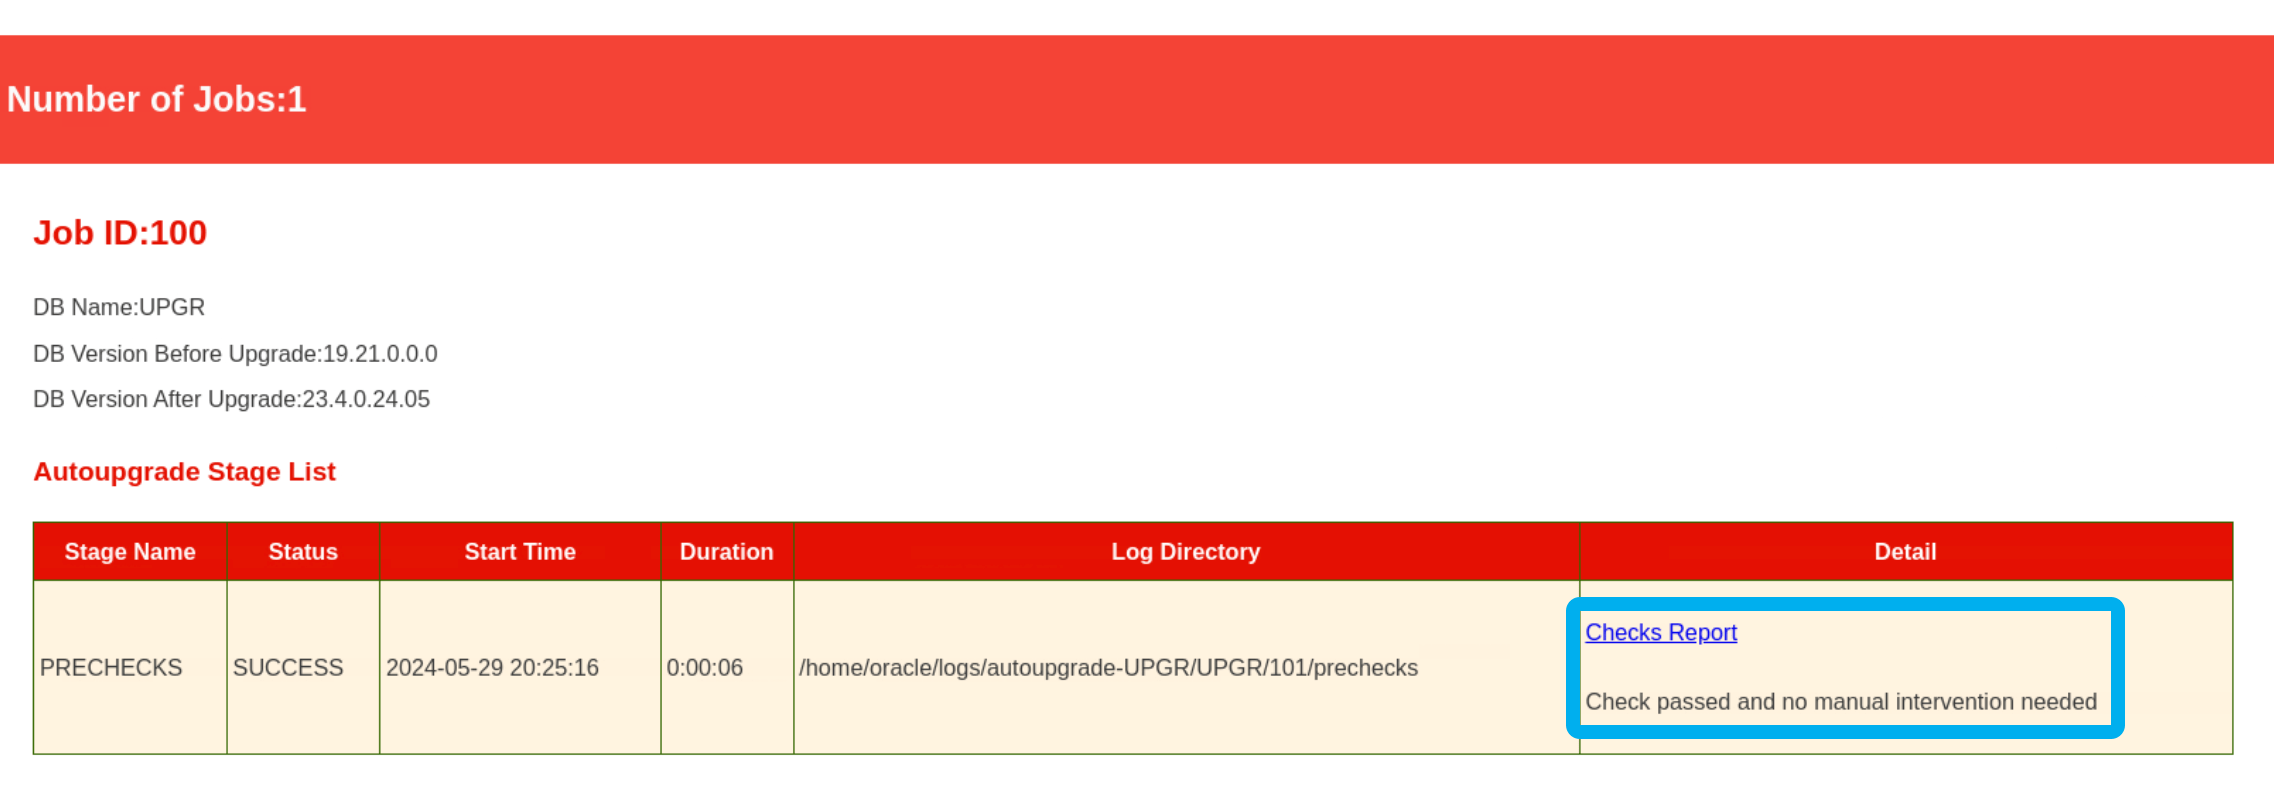
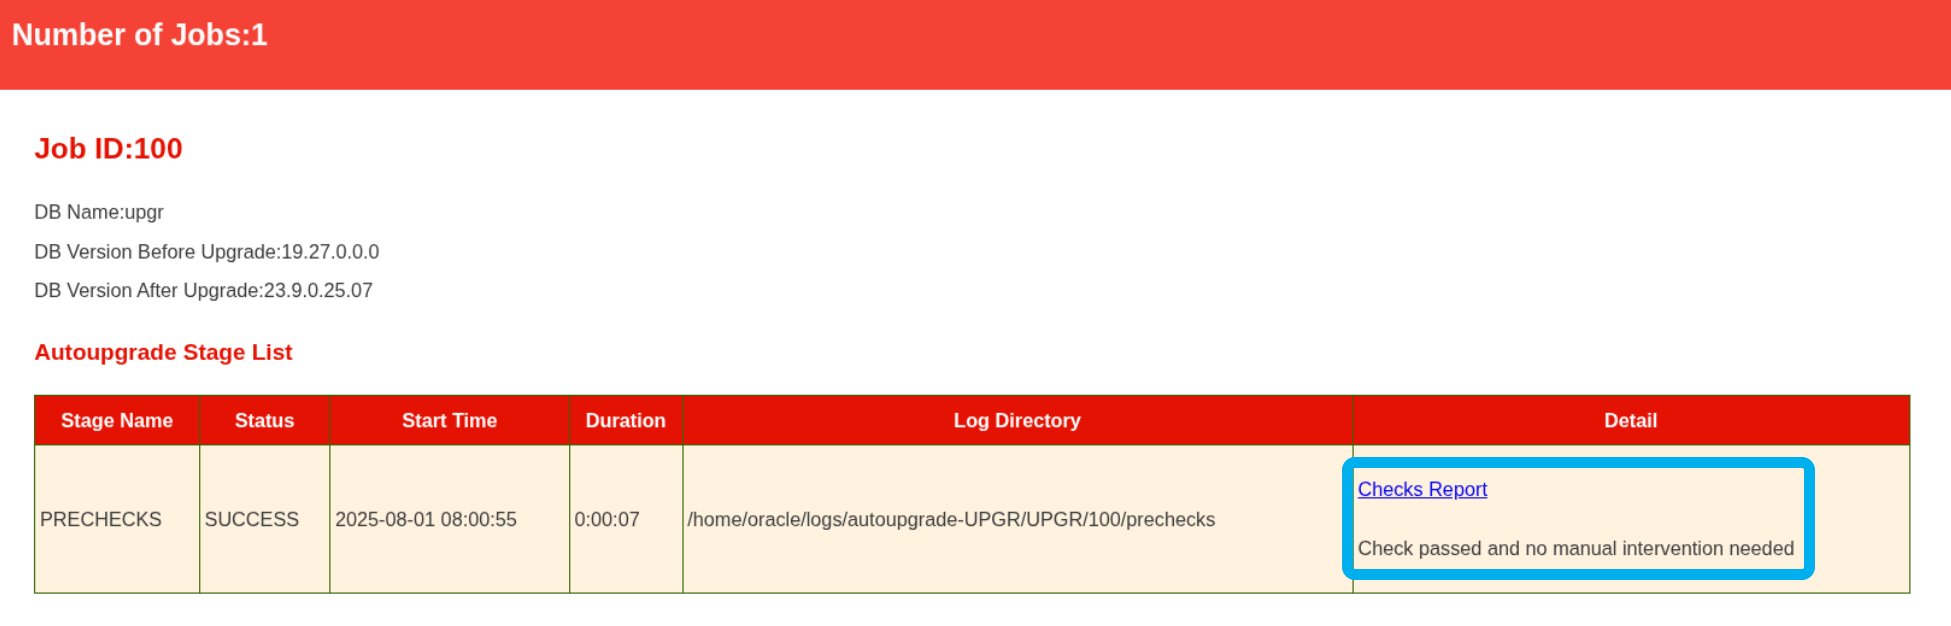
Few changes

Changed region(s): [[0.0, 0.5463, 0.9841, 0.9712], [0.0, 0.0, 1.0, 0.516]]

diff --git a/hitchhikers-guide-upgrade-to-23ai/11-upg-refresh-clone/upg-refresh-clone.md b/hitchhikers-guide-upgrade-to-23ai/11-upg-refresh-clone/upg-refresh-clone.md
@@ -225,7 +225,7 @@ You check the source database for upgrade readiness and execute pre-upgrade fixu
     [Job ID] 100
     ==========================================
     [DB Name]                FTEX
-    [Version Before Upgrade] 19.21.0.0.0
+    [Version Before Upgrade] 19.27.0.0.0
     [Version After Upgrade]  23.9.0.25.07
     ------------------------------------------
     [Stage Name]    PRECHECKS
@@ -474,30 +474,11 @@ You build the refreshable clone with AutoUpgrade. It creates the PDB and starts 
 
     </details>
 
-9. Close the second terminal and return to the first terminal. Do not close the terminal in which AutoUpgrade is running.
-
-    ``` sql
-    <copy>
-    exit
-    </copy>
-    ```
-
-10. Note: When we are performing a PDB hot cloning from non-CDB/root, the source database **can't be restarted**. If that happens, you will notice the error below on the *alert.log* and the PDB needs to be recreated:
-
-    ``` text
-    2024-08-28T05:27:00.451985+00:00
-    PDB2(4):Error! unsupported source PDB operation: 3
-    2024-08-28T05:27:00.710236+00:00
-    PDB2(4):Media Recovery failed with error 65339
-    ```
-
-    * When you restart the source database, the source database places a special marker in the redo stream. This even happens for a clean shutdown (SHUTDOWN NORMAL). The target CDB does not understand how to recover beyond this marker.
-
 ## Task 4: Upgrade and convert to PDB
 
-The *REFRESHPDB* phase would stay technically for the next 100 hours. Reason we defined that long time is to have a full control when to start the process. Imagine, for example, we are waiting for a GO or approval from another team to shut the application down so we can start our migration?
+The *REFRESHPDB* phase would stay technically for the next 100 hours. Reason we defined that long time is to have a full control when to start the process. Imagine, for example, we are waiting for a *go* or approval from another team to shut the application down so we can start our migration.
 
-When the upgrade starts, is when AutoUpgrade executes a final refresh to bring over the latest changes. So no more changes will be captured from the source database. Then, it disconnects the PDB from the non-CDB and starts the upgrade and conversion to PDB.
+When the upgrade starts, AutoUpgrade executes a final refresh to bring over the latest changes. So no more changes will be captured from the source database. Then, it disconnects the PDB from the non-CDB and starts the upgrade and conversion to PDB.
 
 1. Press ENTER just to stop *lsj* from spooling the job status. Next, run the `proceed` command to force the start of upgrade process **now**.
 
@@ -509,30 +490,80 @@ When the upgrade starts, is when AutoUpgrade executes a final refresh to bring o
     -- Be sure to hit RETURN
     ```
 
-    * AutoUpgrade will start the upgrade in 1 minute.
-    * This is a security delay in case you accidentally typed the *proceed* command.
-    * You can adjust it again using *proceed -job <#> -newStartTime [dd/mm/yyyy hh:mm:ss, +<#>h<#>m]*.
+    * AutoUpgrade will start shirtly.
+    * You can also specify a new start time using *proceed -job <#> -newStartTime [dd/mm/yyyy hh:mm:ss, +<#>h<#>m]*.
 
     <details>
     <summary>*click to see the output*</summary>
 
     ``` text
     upg> proceed -job 102
-    New start time for job 100 is scheduled 0 minute(s) from now, at 25/07/2025 13:29:41
+    New start time for job 203 is scheduled 0 minute(s) from now, at 25/07/2025 13:29:41
     ```
 
     </details>
 
-2. In the first terminal, check the output of the `lsj` command running in the AutoUpgrade console.
+2. Monitor the progress.
 
-    * AutoUpgrade moves through the next phases. The two main ones are *DBUPGRADE* which performs the upgrade to Oracle Database 23ai. The other one is *NONCDBTOPDB* which transforms the database into a proper PDB.
+    ``` sql
+    <copy>
+    status -job 102 -a 10
+    </copy>
+    ```
 
-3. Optionally, while waiting for the job to complete, use some of the other commands in the console.
+    * AutoUpgrade was holding in *REFRESHPDB*; applying redo at the specified interval.
+    * When you issued the `proceed` command, AutoUpgrade made a final refresh before moving on to the next phase.
+    * Any changes made in the source database at this point in time, would not come over to the target PDB.
+    * In the *DBUPGRADE* stage, AutoUpgrade is upgrading the PDB to the new release; Oracle Database 23ai. The CDB is already on the new release, so only the PDB is upgraded which is much faster than a complete database upgrade.
+    * Since the source database is a non-CDB, the PDB must also be converted to a proper PDB. AutoUpgrade does that in *NONCDBTOPDB* where it runs the `noncdb_to_pdb.sql` script. 
 
-    * `status -job 102 -a 10`: Gives you even more details about the current job.
-    * `help`: Show other commands available in the AutoUpgrade console.
+    <details>
+    <summary>*click to see the output*</summary>
+    ``` text
+    Details
+    
+    	Job No           102
+    	Oracle SID       FTEX
+    	Start Time       25/08/01 09:48:23
+    	Elapsed (min):   3
+    	End time:        N/A
+    
+    Logfiles
+    
+    	Logs Base:    /home/oracle/logs/ftex-refresh/FTEX
+    	Job logs:     /home/oracle/logs/ftex-refresh/FTEX/102
+    	Stage logs:   /home/oracle/logs/ftex-refresh/FTEX/102/dbupgrade
+    	TimeZone:     /home/oracle/logs/ftex-refresh/FTEX/temp
+    	Remote Dirs:
+    
+    Stages
+    	SETUP            <1 min
+    	PREUPGRADE       <1 min
+    	DRAIN            <1 min
+    	CLONEPDB         <1 min
+    	REFRESHPDB       3 min
+    	DISPATCH         <1 min
+    	DISPATCH         <1 min
+    	DBUPGRADE        ~2 min (RUNNING)
+    	NONCDBTOPDB
+    	POSTCHECKS
+    	POSTFIXUPS
+    	POSTUPGRADE
+    	SYSUPDATES
+    
+    Stage-Progress Per Container
+    
+    	+--------+---------+
+    	|Database|DBUPGRADE|
+    	+--------+---------+
+    	|    TEAL|    6  % |
+    	+--------+---------+
+    
+    The command status is running every 10 seconds. PRESS ENTER TO EXIT
+    ```
+    </details>
 
-4. Wait for AutoUpgrade to complete the migration. When the job completes, AutoUpgrade prints *Job 102 completed*.
+3. Wait for AutoUpgrade to complete the migration. When the job completes, AutoUpgrade prints *Job 102 completed*. It usually takes 10-15 minutes.
 
     <details>
     <summary>*click to see the output*</summary>

diff --git a/hitchhikers-guide-upgrade-to-23ai/10-upg-cdb-flashback/upg-cdb-flashback.md b/hitchhikers-guide-upgrade-to-23ai/10-upg-cdb-flashback/upg-cdb-flashback.md
@@ -34,7 +34,7 @@ You start by checking the *CDBRES* database.
     -- Be sure to hit RETURN
     ```
 
-2. Start up *CDBRES*.
+2. Start the database.
 
     ``` sql
     <copy>
@@ -175,7 +175,8 @@ You start by checking the *CDBRES* database.
     </copy>
     ```
 
-    * Notice that on the *GRP* stage, the created Restore point was "AUTOUPGRADE\_9212\_CDBRES1927000". The same one we queried above.
+    * Notice the *GRP* stage. AutoUpgrade wrote the name of the restore point to the log file.
+    * It is the same restore point that you found in the query above.
 
     <details>
     <summary>*click to see the output*</summary>
@@ -310,6 +311,12 @@ Suppose your tests find a critical error and you would like to go back to Oracle
     +--------------------------------+
     | Starting AutoUpgrade execution |
     +--------------------------------+
+    +----+-------+---------+---------+--------+------------+-------+-------+
+    |Job#|DB_NAME|    STAGE|OPERATION|  STATUS|  START_TIME|UPDATED|MESSAGE|
+    +----+-------+---------+---------+--------+------------+-------+-------+
+    | 100| CDBRES|COMPLETED|  STOPPED|FINISHED|Jul-31 09:15|       |       |
+    +----+-------+---------+---------+--------+------------+-------+-------+
+    Total jobs 1
     ```
 
     </details>
@@ -339,14 +346,14 @@ Suppose your tests find a critical error and you would like to go back to Oracle
 
 4. Set the environment to the original Oracle home and connect.
 
-    ``` sql
+    ``` bash
     <copy>
     . cdbres
     export ORACLE_HOME=/u01/app/oracle/product/19
     sqlplus / as sysdba
     </copy>
 
-    -- Be sure to hit RETURN
+    # Be sure to hit RETURN
     ```
 
 5. Verify that the database is running on Oracle Database 19c.

diff --git a/hitchhikers-guide-upgrade-to-23ai/02-explore-multitenant/explore-multitenant.md b/hitchhikers-guide-upgrade-to-23ai/02-explore-multitenant/explore-multitenant.md
@@ -62,7 +62,7 @@ You connect to the CDB, find a list of PDBs and connect to them using different 
     _________ ___________ _____________ _____________
     2         PDB$SEED    READ ONLY     NO
     3         RED         READ WRITE    NO
-    4         BLUE        READ WRITE    NO
+    4         BLUE        MOUNTED
     5         GREEN       MOUNTED
     ```
 
@@ -370,18 +370,19 @@ You check initialization parameters and set some in the CDB. Also, find a list o
     <summary>*click to see the output*</summary>
 
     ``` text
-    CON_ID    NAME               VALUE
-    _________ __________________ ___________
-    2         sga_target         0
-    2         undo_tablespace
-    3         sga_target         0
-    3         undo_tablespace    UNDOTBS1
-    4         sga_target         0
-    4         undo_tablespace    UNDOTBS1
-    5         sga_target         0
-    5         undo_tablespace    UNDOTBS1
-
-    8 rows selected.
+       CON_ID NAME                           VALUE
+    _________ ______________________________ ___________
+            2 sga_target                     0
+            2 undo_tablespace
+            3 sga_target                     0
+            3 undo_tablespace                UNDOTBS1
+            4 sga_target                     0
+            4 spatial_vector_acceleration    TRUE
+            4 undo_tablespace                UNDOTBS1
+            5 sga_target                     0
+            5 undo_tablespace                UNDOTBS1
+    
+    9 rows selected.
     ```
 
     </details>

diff --git a/hitchhikers-guide-upgrade-to-23ai/00-introduction/introduction.md b/hitchhikers-guide-upgrade-to-23ai/00-introduction/introduction.md
@@ -2,7 +2,7 @@
 
 ## About this Workshop
 
-Oracle Database 23ai is a *Long Term Support Release*. It is available or will be available on all popular on-prem platforms, Oracle Exadata Database Machine, Oracle Database Appliance, and in Oracle Cloud Infrastructure. As the latest Long Term Support Release, it offers customers the highest levels of stability and the longest error correction support. And, by upgrading to Oracle Database 23ai, customers will have Premier Support until the end of April 2029 and Extended Support until end of April 2032.  There is a direct upgrade path to Oracle Database 23ai from Oracle Database 19c and 21c, regardless of the Release Update applied.
+Oracle Database 23ai is a *Long Term Support Release*. It is available or will be available on all popular on-prem platforms, Oracle Exadata Database Machine, Oracle Database Appliance, and in Oracle Cloud Infrastructure. As the latest Long Term Support Release, it offers customers the highest levels of stability and the longest error correction support. And, by upgrading to Oracle Database 23ai, customers will have Premier Support until the end of 2031 and Extended Support for a period thereafter.  There is a direct upgrade path to Oracle Database 23ai from Oracle Database 19c and 21c, regardless of the Release Update applied.
 
 Estimated Workshop Time: 120 minutes
 

diff --git a/hitchhikers-guide-upgrade-to-23ai/14-encrypted-db-upg-conv/encrypted-db-upg-conv.md b/hitchhikers-guide-upgrade-to-23ai/14-encrypted-db-upg-conv/encrypted-db-upg-conv.md
@@ -420,7 +420,7 @@ Analyze the *FTEX* database for upgrade readiness.
     [Job ID] 100
     ==========================================
     [DB Name]                FTEX
-    [Version Before Upgrade] 19.21.0.0.0
+    [Version Before Upgrade] 19.27.0.0.0
     [Version After Upgrade]  23.9.0.25.07
     ------------------------------------------
     [Stage Name]    PRECHECKS
@@ -673,7 +673,7 @@ Analyze the *FTEX* database for upgrade readiness.
     [Job ID] 101
     ==========================================
     [DB Name]                FTEX
-    [Version Before Upgrade] 19.21.0.0.0
+    [Version Before Upgrade] 19.27.0.0.0
     [Version After Upgrade]  23.9.0.25.07
     ------------------------------------------
     [Stage Name]    PRECHECKS

diff --git a/hitchhikers-guide-upgrade-to-23ai/05-autoupgrade/autoupgrade.md b/hitchhikers-guide-upgrade-to-23ai/05-autoupgrade/autoupgrade.md
@@ -302,7 +302,7 @@ It is best practice to first analyze your database for upgrade readiness. It is 
     ![The Checks Report shows many details about the database](./images/autoupgrade-checks-report.png " ")
 
     * Examine the Checks Report.
-    * Notice how a specific check has severity *RECOMMENDED*, but AutoUpgrade has a fixup available.
+    * Notice how a specific check has severity *ERROR*, but AutoUpgrade has a fixup available.
     * Then close Firefox.
 
 ## Task 3: Upgrade your database

diff --git a/hitchhikers-guide-upgrade-to-23ai/12-migrate-using-data-pump/migrate-using-data-pump.md b/hitchhikers-guide-upgrade-to-23ai/12-migrate-using-data-pump/migrate-using-data-pump.md
@@ -180,7 +180,7 @@ You need to prepare a few things before you can start a Data Pump export.
 
     ``` text
     Export: Release 19.0.0.0.0 - Production on Tue May 28 03:23:45 2024
-    Version 19.21.0.0.0
+    Version 19.27.0.0.0
 
     Copyright (c) 1982, 2019, Oracle and/or its affiliates.  All rights reserved.
 

diff --git a/hitchhikers-guide-upgrade-to-23ai/13-migrate-using-ftex/migrate-using-ftex.md b/hitchhikers-guide-upgrade-to-23ai/13-migrate-using-ftex/migrate-using-ftex.md
@@ -235,7 +235,7 @@ You need to prepare a few things before you can start FTEX.
 
     ``` text
     Export: Release 19.0.0.0.0 - Production on Wed May 29 13:31:09 2024
-    Version 19.21.0.0.0
+    Version 19.27.0.0.0
 
     Copyright (c) 1982, 2019, Oracle and/or its affiliates.  All rights reserved.
 

diff --git a/hitchhikers-guide-upgrade-to-23ai/07-spa/spa.md b/hitchhikers-guide-upgrade-to-23ai/07-spa/spa.md
@@ -22,7 +22,7 @@ This lab assumes:
 
 ## Task 1: Check statements
 
-1. Use the *yellow* terminal. Set the environment to *CDB23* and connect.
+1. Use the *yellow* terminal 🟨. Set the environment to *CDB23* and connect.
 
       ``` sql
       <copy>

diff --git a/hitchhikers-guide-upgrade-to-23ai/15-downgrade-pdb/downgrade-pdb.md b/hitchhikers-guide-upgrade-to-23ai/15-downgrade-pdb/downgrade-pdb.md
@@ -464,7 +464,7 @@ You need to plug the PDB into a CDB on Oracle Database 19c and finish the downgr
 
     VERSION_FULL
     ---------------
-    19.21.0.0.0
+    19.27.0.0.0
 
     1 row selected.
     ```
